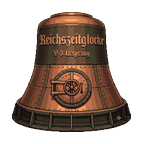
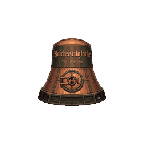
Bind Looki v2.0 half-size bell and death FX

diff --git a/app/src/main/java/com/stoni/androidstone/ui/screens/PlayScreen.kt b/app/src/main/java/com/stoni/androidstone/ui/screens/PlayScreen.kt
@@ -74,7 +74,7 @@ private data class Fx(var x: Float, var y: Float, var life: Int, val kind: Int)
 fun PlayScreen(onExit: () -> Unit) {
     val context = LocalContext.current
     val density = LocalDensity.current
-    val shipPxSize = with(density) { 112.dp.toPx() }
+    val shipPxSize = with(density) { 68.dp.toPx() }
     val enemyPxSize = with(density) { 72.dp.toPx() }
     val bigPxSize = with(density) { 110.dp.toPx() }
     val bulletW = with(density) { 18.dp.toPx() }
@@ -82,7 +82,7 @@ fun PlayScreen(onExit: () -> Unit) {
     val prefs = remember { context.getSharedPreferences("stargame", Context.MODE_PRIVATE) }
     var high by remember { mutableIntStateOf(prefs.getInt("highscore", 0)) }
 
-    val shipImg = remember { loadAsset(context, "player_glocke_112.png") }
+    val shipImg = remember { loadAsset(context, "player_glocke_96.png") }
     val enemyImg = remember { loadAsset(context, "enemy_stoerer_64.png") }
     val enemyImgB = remember { loadAsset(context, "enemy_stoerer_b_64.png") }
     val enemyBig = remember { loadAsset(context, "enemy_stoerer_big_128.png") }
